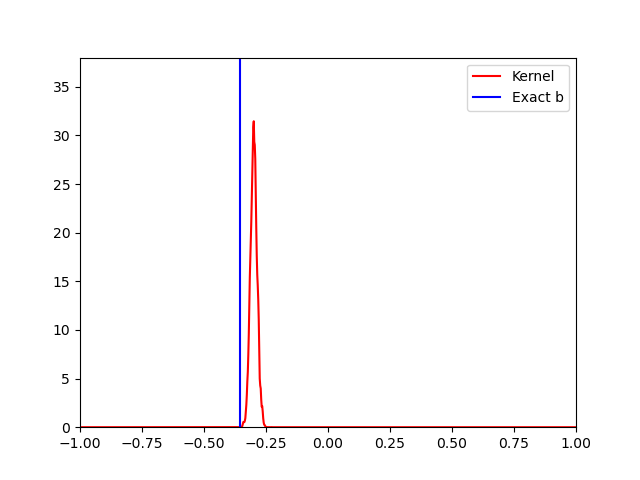
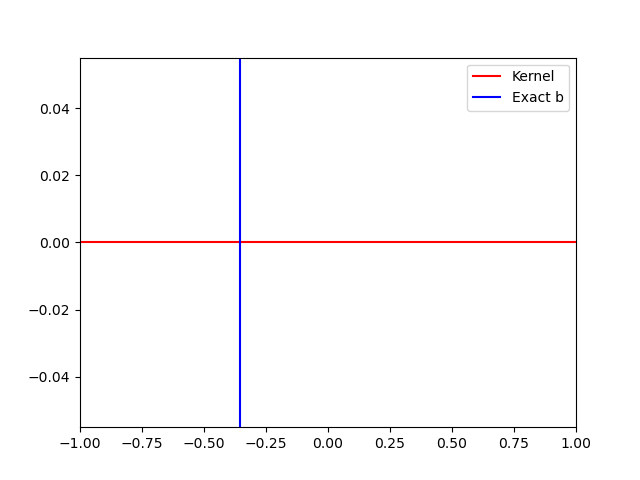
Addition and testing of algorithms to Duplicate.py

diff --git a/Duplicate.py b/Duplicate.py
@@ -15,6 +15,15 @@ due to lack of burn-in which impacts other estimates.
 Remember that this still has the coherent state approach to it rather than repeated fock states, that can be
 something to keep in mind. Also keep in mind the idea of randomising true values to get a more objective evaluation
 of performance in the end.
+
+Added MIS algorithm. Has issues though since in Neville protocol, MIS is only used to change 'a' and so then if the algorithm is run in isolation 
+then the gaussian kde doesn't work since the other values (eta and b) aren't changing. Error only thrown on eta, could be that eta is all 0.5 while 
+b is 0.7? Either way it is necessary to keep in mind this requirement in using these algorithms but also perhaps put in a simple check like calculation 
+of the cholesky decomposition and if an error is raised then automatically rerun the code?
+
+Added MIS algorithm that works on all terms, so MIS stuff all sorted.
+
+Added MIS-within-Gibbs (both alpha model - meaning just a's - and full model so all terms). Both appear to work as expected.
 """
 
 import numpy as np
@@ -30,9 +39,9 @@ eta = 0.521  # arbitrary value for testing
 
 mu = 0.5  # coherent state intensity
 n = 10000  # number of data sample tuples (outcome, voltage)
-N = 50000  # size of MCMC
+#N = 50000  # size of MCMC
 #N=1000
-
+N=1000
 sigma_hyper = 0.5  # variance for proposal distribution
 eta_sigma=0.005
 a_sigma=np.pi/200
@@ -52,15 +61,20 @@ def data_draw(x, n):
     sqrt_1eta = np.sqrt(1-x[np.newaxis, :, 2])
     z1 = np.exp(-mu * np.abs(sqrt_eta*exp_phi + sqrt_1eta) ** 2)  # click probability, shape (n, m)
     Z1 = np.concatenate([1 - z1[np.newaxis], z1[np.newaxis]], axis=0)
-    z2 = np.exp(-mu * np.abs(sqrt_1eta*exp_phi - sqrt_eta) ** 2)  # click probability
+    z2 = np.exp(-mu * np.abs(sqrt_1eta*exp_phi - sqrt_eta) ** 2)  # click probability 
     Z2 = np.concatenate([1 - z2[np.newaxis], z2[np.newaxis]], axis=0)
     Z = Z1[:, np.newaxis] * Z2[np.newaxis, :]  # shape (2,2,n,m)
+    #print(np.shape(Z))
     Z = Z.reshape((4, Z.shape[2], Z.shape[3]))  # proba distribution
+    #print(np.shape(Z))
+    #print(Z)
     z = np.cumsum(Z, axis=0)  # cumulative distribution
+    #print(z)
 
     u = np.random.uniform(size=(Z.shape[-2], Z.shape[-1]))  # random draw to choose outcome, shape (n,m)
 
     y = np.argmax(u[np.newaxis, :, :] < z, axis=0)  # selected outcome value, shape (n, m)
+    #print(y)
     Y = np.concatenate([y[:, :, np.newaxis], v[:, :, np.newaxis]], axis=-1)  # shape (n,m,2)
     return Y
 
@@ -124,6 +138,23 @@ def logproposal_distribution(x1, x2):
     p_2 = scipy.stats.norm.logpdf(x2[:, 2], loc=x1[:, 2], scale=eta_sigma)
     return p_0 + p_1 + p_2
 
+def MIS_logproposal_distribution(x1, x2):
+    #p_0 = scipy.stats.norm.logpdf(x2[:, 0], loc=x1[:, 0], scale=sigma_hyper)
+    p_0 = scipy.stats.uniform.logpdf(x2[:, 0], loc=-np.pi, scale=2*np.pi)
+    #p_1 = scipy.stats.norm.logpdf(x2[:, 1], loc=x1[:, 1], scale=sigma_hyper)
+    p_1 = scipy.stats.uniform.logpdf(x2[:, 1], loc=-np.pi, scale=2*np.pi)
+    #p_2 = scipy.stats.norm.logpdf(x2[:, 2], loc=x1[:, 2], scale=sigma_hyper)
+    p_2 = scipy.stats.uniform.logpdf(x2[:, 2], loc=0, scale=1)
+    return p_0 + p_1 + p_2
+
+def a_unif_logproposal_distribution(x1,x2):
+    #p_0 = scipy.stats.norm.logpdf(x2[:, 0], loc=x1[:, 0], scale=sigma_hyper)
+    p_0 = scipy.stats.uniform.logpdf(x2[:, 0], loc=-np.pi, scale=2*np.pi)
+    #p_1 = scipy.stats.norm.logpdf(x2[:, 1], loc=x1[:, 1], scale=sigma_hyper)
+    p_1 = scipy.stats.norm.logpdf(x2[:, 1], loc=x1[:, 1], scale=b_sigma)
+    #p_2 = scipy.stats.norm.logpdf(x2[:, 2], loc=x1[:, 2], scale=sigma_hyper)
+    p_2 = scipy.stats.norm.logpdf(x2[:, 2], loc=x1[:, 2], scale=eta_sigma)
+    return p_0 + p_1 + p_2
 
 # Draw a single sample from proposal; normal distribution centred on point x1
 # x1: value of parameters, shape (m, index)
@@ -137,15 +168,40 @@ def proposal_draw(x1):
     eta_draw = np.random.normal(loc=x1[:, 2], scale=eta_sigma)
     return np.concatenate([a_draw[:, np.newaxis], b_draw[:, np.newaxis], eta_draw[:, np.newaxis]], axis=-1)
 
+def MIS_proposal_draw(x1):
+    a_draw = np.random.uniform(low=-np.pi, high=np.pi, size=(1,))
+    b_draw = np.random.uniform(low=-np.pi, high=np.pi, size=(1,)) #Since there aren't really bounds on 'b' i have given same bounds as 'a'
+    eta_draw = np.random.uniform(low=0, high=1, size=(1,))
+    return np.concatenate([a_draw[:, np.newaxis], b_draw[:, np.newaxis], eta_draw[:, np.newaxis]], axis=-1)
+
 def a_proposal_draw(x1):
     a_draw = np.random.normal(loc=x1[:, 0], scale=a_sigma)
     b_draw=x1[:,1]
     eta_draw=x1[:,2]
     return np.concatenate([a_draw[:, np.newaxis], b_draw[:, np.newaxis], eta_draw[:, np.newaxis]], axis=-1)
 
+def MIS_a_proposal_draw(x1):
+    a_draw = np.random.uniform(low=-np.pi, high=np.pi, size=(1,))
+    b_draw=x1[:,1]
+    eta_draw=x1[:,2]
+    return np.concatenate([a_draw[:, np.newaxis], b_draw[:, np.newaxis], eta_draw[:, np.newaxis]], axis=-1)
+
+def a_unif_proposal_draw(x1):
+    a_draw = np.random.uniform(low=-np.pi, high=np.pi, size=(1,))
+    b_draw=x1[:,1]
+    eta_draw=x1[:,2]
+    return np.concatenate([a_draw[:, np.newaxis], b_draw[:, np.newaxis], eta_draw[:, np.newaxis]], axis=-1)
+
+
 def b_proposal_draw(x1):
     a_draw = x1[:,0]
     b_draw = np.random.normal(loc=x1[:, 1], scale=b_sigma)
+    eta_draw = x1[:,2]
+    return np.concatenate([a_draw[:, np.newaxis], b_draw[:, np.newaxis], eta_draw[:, np.newaxis]], axis=-1)
+
+def MIS_b_proposal_draw(x1):
+    a_draw = x1[:,0]
+    b_draw = np.random.uniform(low=-np.pi, high=np.pi, size=(1,))
     eta_draw = x1[:,2]
     return np.concatenate([a_draw[:, np.newaxis], b_draw[:, np.newaxis], eta_draw[:, np.newaxis]], axis=-1)
 
@@ -155,10 +211,17 @@ def eta_proposal_draw(x1):
     eta_draw = np.random.normal(loc=x1[:, 2], scale=eta_sigma)
     return np.concatenate([a_draw[:, np.newaxis], b_draw[:, np.newaxis], eta_draw[:, np.newaxis]], axis=-1)
 
+def MIS_eta_proposal_draw(x1):
+    a_draw = x1[:, 0]
+    b_draw = x1[:,1]
+    eta_draw = np.random.uniform(low=0, high=1, size=(1,))
+    return np.concatenate([a_draw[:, np.newaxis], b_draw[:, np.newaxis], eta_draw[:, np.newaxis]], axis=-1)
+
 y = data_draw(x=np.array([[a, b, eta]]), n=n).reshape((-1, 2))  # draw data from exact model
 y = y.reshape((-1, 2))  # reshape to remove the axis for x since we have m=1; not sure if it's relevant to have any m>1
 x = np.array([[0.1, 0.7, 0.5]])  # initial point
 
+#Alg4
 def MCMC_MHinGibbs(x):
     #MH-within-Gibbs alg
     L = [x]  # output chain
@@ -205,6 +268,132 @@ def MCMC_MHinGibbs(x):
 
 #chain=MCMC_MHinGibbs(x)
 
+#Alg5
+"""
+Warning this function will throw an error if only this algorithm is run since i have constructed it like the NEville thesis version where it is only proposing new 'a' values so b and eta don't change thus leading to issues with the gaussian kde for those chains.
+"""
+def MCMC_MIS_a(x):
+    #MH algorithm
+    L = [x]  # output chain
+    for _ in range(N):
+        u = np.random.uniform()  # uniform draw to test acceptance
+        x2 = a_unif_proposal_draw(x1=x)  # draw a single candidate
+
+        LL2 = logposterior(y=y, x=x2) + a_unif_logproposal_distribution(x2=x, x1=x2)
+        LL1 = logposterior(y=y, x=x) + a_unif_logproposal_distribution(x2=x2, x1=x)
+        LLdifference = LL2 - LL1
+        A = np.where(LLdifference >= 0, 0, LLdifference)
+        if u <= np.exp(A):  # TODO array version, likely need cleanup
+            x = x2
+        L.append(x)
+    warmup = N // 10
+    L = L[warmup:]  # dump first 10% of the chain
+    chain = np.array(L)
+    chain = chain.reshape((-1, 3))
+    chain = chain.transpose()  # not very meaningful to transpose, just simpler for kde call later
+    return chain
+
+#chain=MCMC_MIS_a(x)
+
+def MCMC_MIS(x):
+    #MH algorithm
+    L = [x]  # output chain
+    for _ in range(N):
+        u = np.random.uniform()  # uniform draw to test acceptance
+        x2 = MIS_proposal_draw(x1=x)  # draw a single candidate
+
+        LL2 = logposterior(y=y, x=x2) + MIS_logproposal_distribution(x2=x, x1=x2)
+        LL1 = logposterior(y=y, x=x) + MIS_logproposal_distribution(x2=x2, x1=x)
+        LLdifference = LL2 - LL1
+        A = np.where(LLdifference >= 0, 0, LLdifference)
+        if u <= np.exp(A):  # TODO array version, likely need cleanup
+            x = x2
+        L.append(x)
+    warmup = N // 10
+    L = L[warmup:]  # dump first 10% of the chain
+    chain = np.array(L)
+    chain = chain.reshape((-1, 3))
+    chain = chain.transpose()  # not very meaningful to transpose, just simpler for kde call later
+    return chain
+
+#chain=MCMC_MIS(x)
+
+#Alg6
+"""
+Warning this function will throw an error if only this algorithm is run since i have constructed it like the NEville thesis version where it is only proposing new 'a' values so b and eta don't change thus leading to issues with the gaussian kde for those chains.
+"""
+def MCMC_MISinGibbs_a(x):
+    #MIS-within-Gibbs alg
+    L = [x]  # output chain
+    for _ in range(N):
+        for i in range(len(x[0])):
+            if i in [0]:
+                u = np.random.uniform()  # uniform draw to test acceptance
+                x2 = MIS_a_proposal_draw(x1=x)  # draw a single candidate
+
+                LL2 = logposterior(y=y, x=x2) + MIS_logproposal_distribution(x2=x, x1=x2)
+                LL1 = logposterior(y=y, x=x) + MIS_logproposal_distribution(x2=x2, x1=x)
+                LLdifference = LL2 - LL1
+                A = np.where(LLdifference >= 0, 0, LLdifference)
+                if u <= np.exp(A):  # TODO array version, likely need cleanup
+                    x = x2
+        L.append(x)
+
+    warmup = N // 10
+    L = L[warmup:]  # dump first 10% of the chain
+    chain = np.array(L)
+    chain = chain.reshape((-1, 3))
+    chain = chain.transpose()  # not very meaningful to transpose, just simpler for kde call later
+    return chain
+
+chain=MCMC_MISinGibbs_a(x)
+
+def MCMC_MISinGibbs(x):
+    #MIS-within-Gibbs alg
+    L = [x]  # output chain
+    for _ in range(N):
+        for i in range(len(x[0])):
+            if i in [0]:
+                u = np.random.uniform()  # uniform draw to test acceptance
+                x2 = MIS_a_proposal_draw(x1=x)  # draw a single candidate
+
+                LL2 = logposterior(y=y, x=x2) + MIS_logproposal_distribution(x2=x, x1=x2)
+                LL1 = logposterior(y=y, x=x) + MIS_logproposal_distribution(x2=x2, x1=x)
+                LLdifference = LL2 - LL1
+                A = np.where(LLdifference >= 0, 0, LLdifference)
+                if u <= np.exp(A):  # TODO array version, likely need cleanup
+                    x = x2
+            if i in [1]:
+                u = np.random.uniform()  # uniform draw to test acceptance
+                x2 = MIS_b_proposal_draw(x1=x)  # draw a single candidate
+
+                LL2 = logposterior(y=y, x=x2) + MIS_logproposal_distribution(x2=x, x1=x2)
+                LL1 = logposterior(y=y, x=x) + MIS_logproposal_distribution(x2=x2, x1=x)
+                LLdifference = LL2 - LL1
+                A = np.where(LLdifference >= 0, 0, LLdifference)
+                if u <= np.exp(A):  # TODO array version, likely need cleanup
+                    x = x2
+            if i in [2]:
+                u = np.random.uniform()  # uniform draw to test acceptance
+                x2 = MIS_eta_proposal_draw(x1=x)  # draw a single candidate
+
+                LL2 = logposterior(y=y, x=x2) + MIS_logproposal_distribution(x2=x, x1=x2)
+                LL1 = logposterior(y=y, x=x) + MIS_logproposal_distribution(x2=x2, x1=x)
+                LLdifference = LL2 - LL1
+                A = np.where(LLdifference >= 0, 0, LLdifference)
+                if u <= np.exp(A):  # TODO array version, likely need cleanup
+                    x = x2
+        L.append(x)
+
+    warmup = N // 10
+    L = L[warmup:]  # dump first 10% of the chain
+    chain = np.array(L)
+    chain = chain.reshape((-1, 3))
+    chain = chain.transpose()  # not very meaningful to transpose, just simpler for kde call later
+    return chain
+
+#chain=MCMC_MISinGibbs(x)
+
 def MCMC_MH(x):
     #MH algorithm
     L = [x]  # output chain
@@ -226,7 +415,7 @@ def MCMC_MH(x):
     chain = chain.transpose()  # not very meaningful to transpose, just simpler for kde call later
     return chain
 
-chain=MCMC_MH(x)
+#chain=MCMC_MH(x)
 
 # Data visualisation
 # I no longer plot the exact posterior because it's a pain when using loglikelihood
@@ -246,7 +435,7 @@ plt.plot(a_range, estimated_pdf_a, "-", label="Kernel", color="red")
 plt.axvline(x=a, label="Exact a", color="blue")
 plt.legend()
 plt.xlim([0, 1])
-plt.ylim([0, np.round(1.2*np.max([estimated_pdf_a]))])
+#plt.ylim([0, np.round(1.2*np.max([estimated_pdf_a]))])
 # plt.show()
 plt.savefig("a.png")
 
@@ -265,7 +454,7 @@ plt.plot(b_range, estimated_pdf_b, "-", label="Kernel", color="red")
 plt.axvline(x=b, label="Exact b", color="blue")
 plt.legend()
 plt.xlim([-1, 1])
-plt.ylim([0, np.round(1.2*np.max([estimated_pdf_b]))])
+#plt.ylim([0, np.round(1.2*np.max([estimated_pdf_b]))])
 # plt.show()
 plt.savefig("b.png")
 
@@ -285,6 +474,6 @@ plt.plot(eta_range, estimated_pdf_eta, "-", label="Kernel", color="red")
 plt.axvline(x=eta, label="Exact eta", color="blue")
 plt.legend()
 plt.xlim([0, 1])
-plt.ylim([0, np.round(1.2*np.max([estimated_pdf_eta]))])
+#plt.ylim([0, np.round(1.2*np.max([estimated_pdf_eta]))])
 # plt.show()
 plt.savefig("eta.png")

diff --git a/Restructured.py b/Restructured.py
@@ -4,6 +4,8 @@ Emilien's in too main ways. One is basically put the probabilities in log form a
 acceptance rules. Secondly is putting it into posterior form rather than P1*L1*g1 for example.
 
 Need to make sure my indentations are proper in the subalgorithm parts
+
+Definitely doesn't work
 """
 import numpy as np
 import scipy
